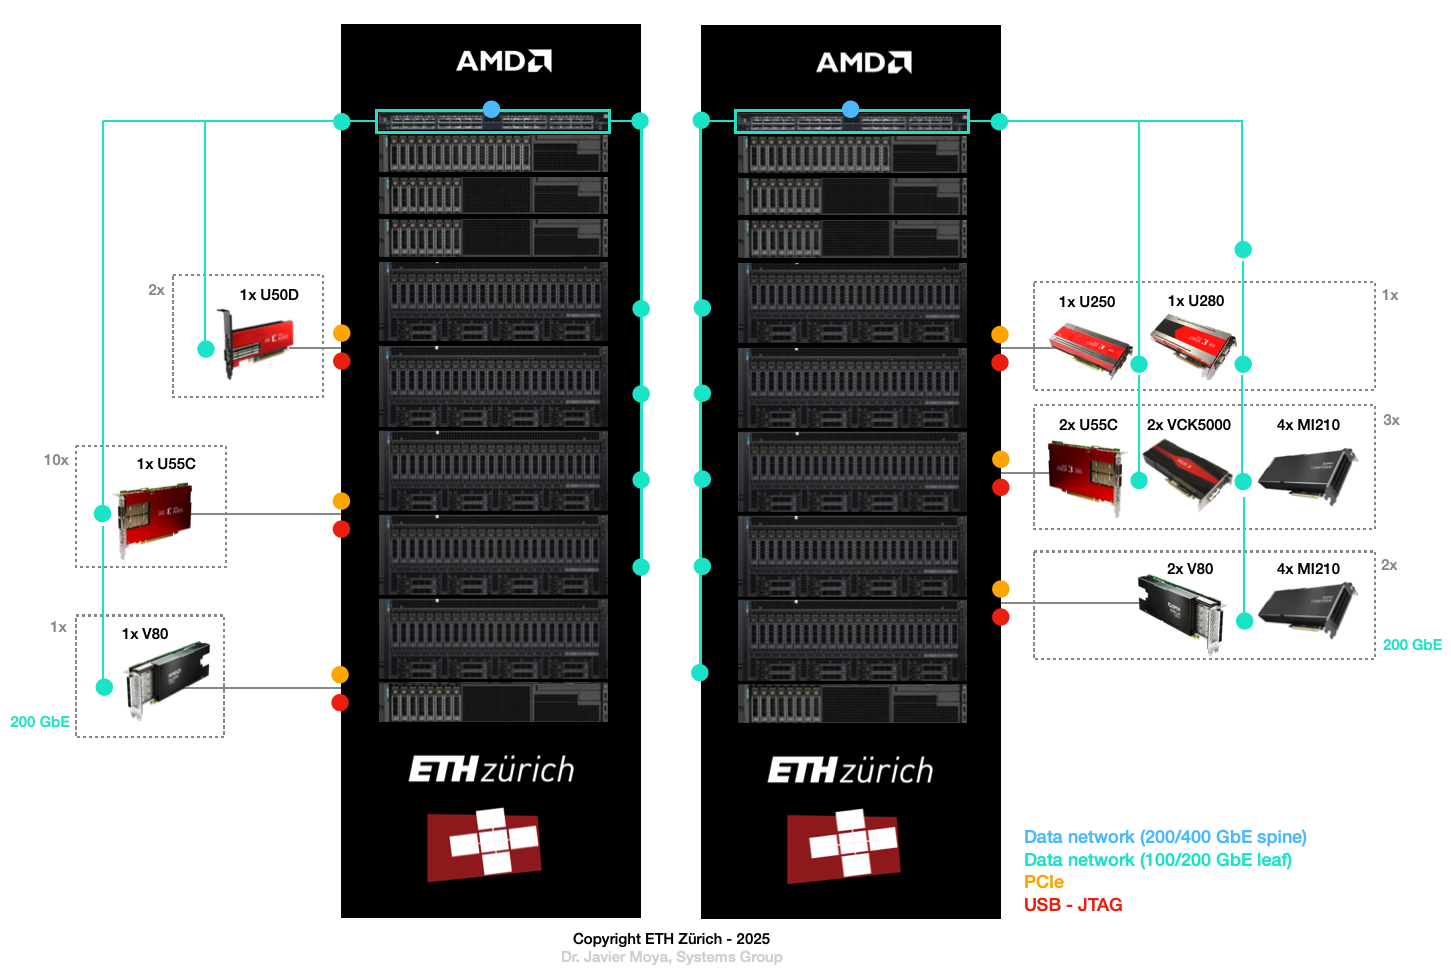
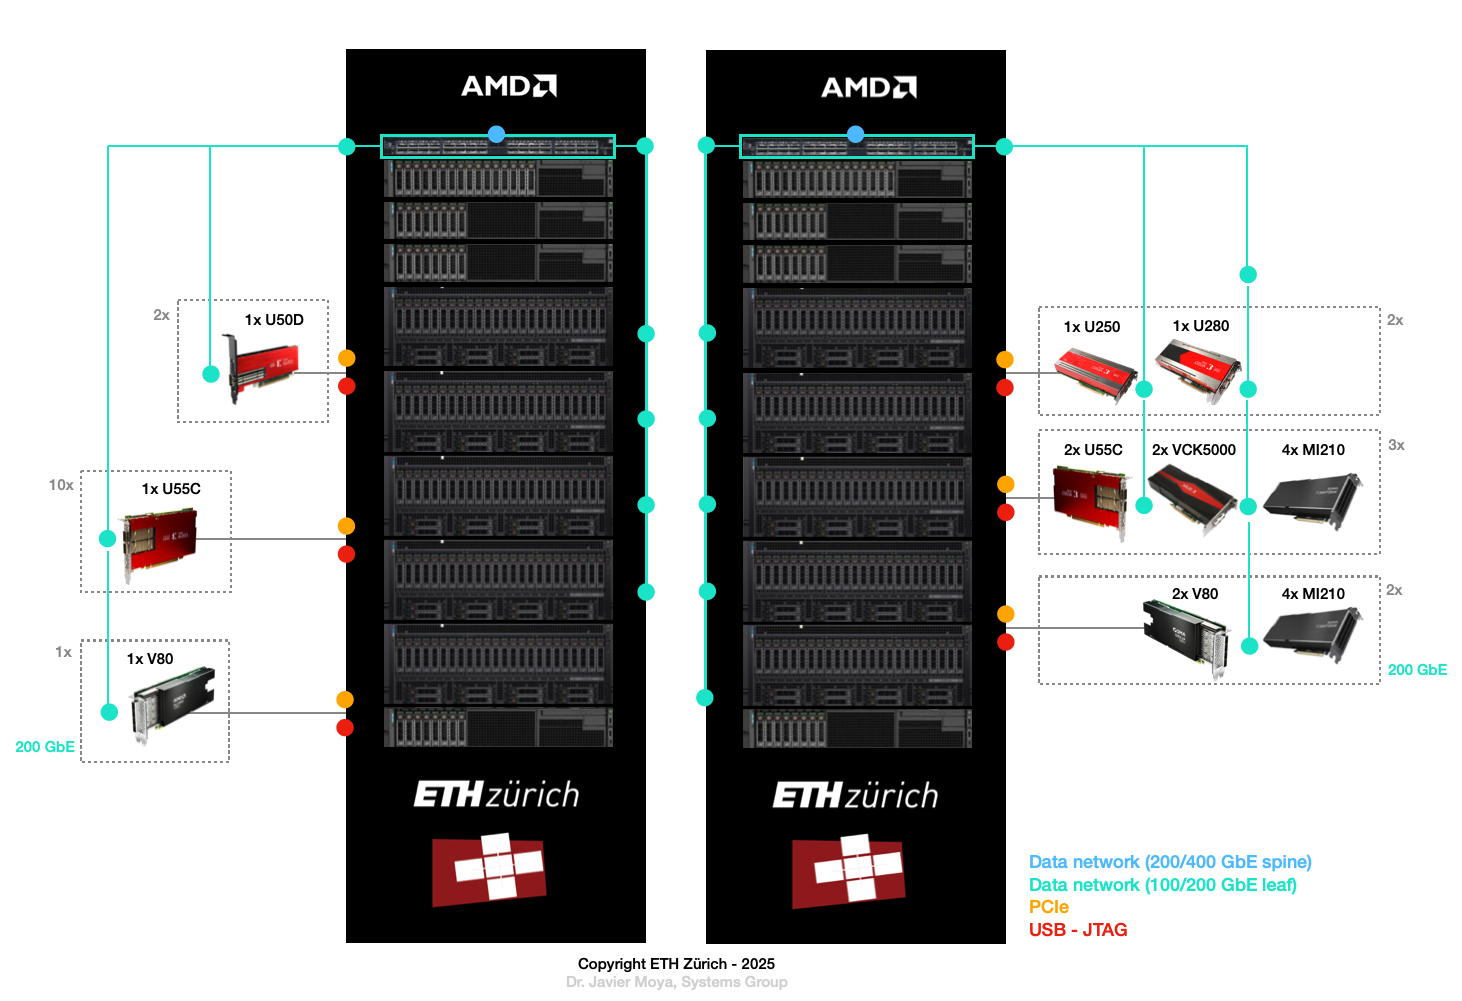
Fixing amount of ALVEO BOXES

diff --git a/docs/features.md b/docs/features.md
@@ -16,7 +16,7 @@ We use [Infrastructure as Code (IaC)](./vocabulary.md#infrastructure-as-code-iac
 * Deliver stable tests environments rapidly at scale.
 
 ## HACC Development (hdev)
-By using [HACC Development (hdev)](https://github.com/fpgasystems/hdev), you can easily:
+By using [HACC Development (hdev),](https://github.com/fpgasystems/hdev) you can easily:
 
 * **Validate the fundamental functionality** of ETHZ-HACC, ensuring its reliability and performance.
 * Expedite project creation through intuitive multiple-choice dialogs and templates, **streamlining the development of your accelerated applications.**
